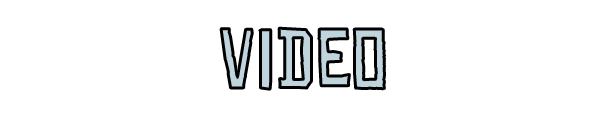
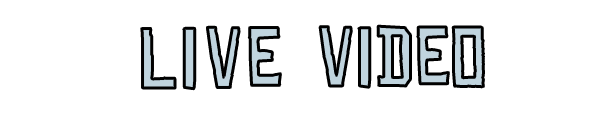
Hello nurse

Changed region(s): [[0.2188, 0.2087, 0.8125, 0.7826]]

diff --git a/index.html b/index.html
@@ -159,6 +159,14 @@
         height: auto;
         aspect-ratio: 16 / 9;
     }
+    .video {
+    	background-color: rgba(255, 255, 255, 0.6);
+    	backdrop-filter: blur(8px);
+    	-webkit-backdrop-filter: blur(8px);
+    	padding: 2rem 1.5rem;
+    	border-radius: 20px;
+    	box-shadow: 0 10px 30px rgba(0,0,0,0.08);
+}
     .tour ul {
         list-style: none;
         padding: 0;
@@ -166,6 +174,23 @@
     .tour li {
         margin: 0.5rem 0;
     font-size: 1.5rem;
+    }
+    .tour {
+    	background-color: rgba(255, 255, 255, 0.6);
+    	backdrop-filter: blur(8px);
+    	-webkit-backdrop-filter: blur(8px);
+    	padding: 2rem 1.5rem;
+    	border-radius: 20px;
+    	box-shadow: 0 10px 30px rgba(0,0,0,0.08);
+    }
+    .shop {
+    	background-color: rgba(255, 255, 255, 0.6);
+    	backdrop-filter: blur(8px);
+    	-webkit-backdrop-filter: blur(8px);
+    	padding: 2rem 1.5rem;
+    	border-radius: 20px;
+    	box-shadow: 0 10px 30px rgba(0,0,0,0.08);
+    	border: 1px solid rgba(255,255,255,0.7);
 }
     .contact form {
         display: flex;
